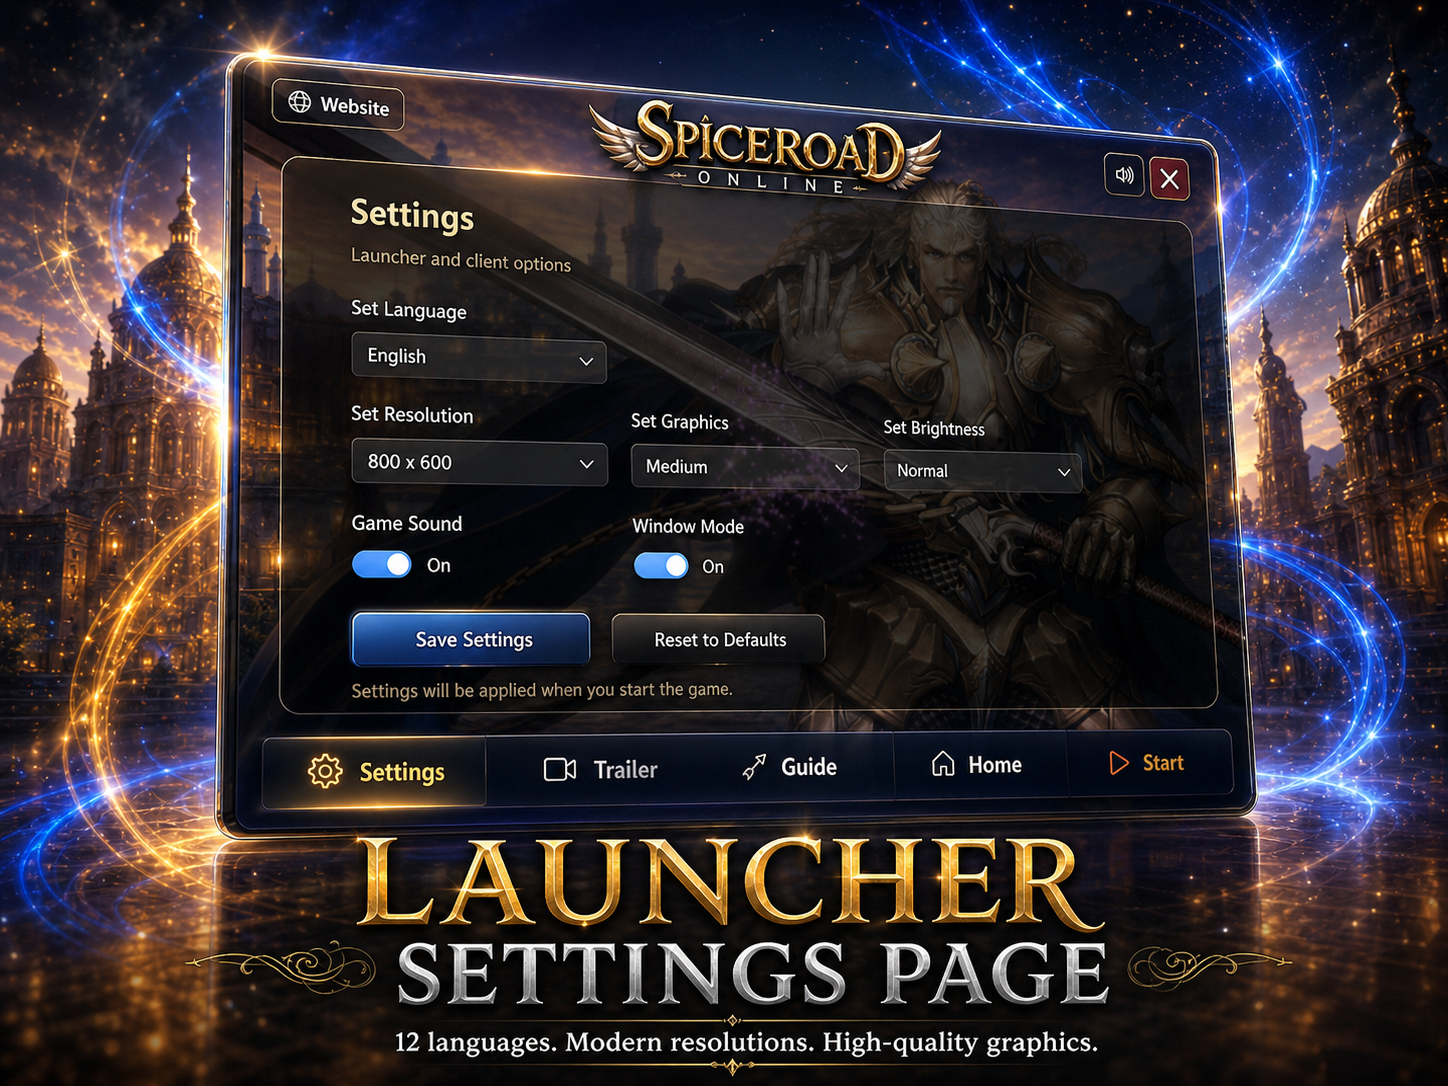
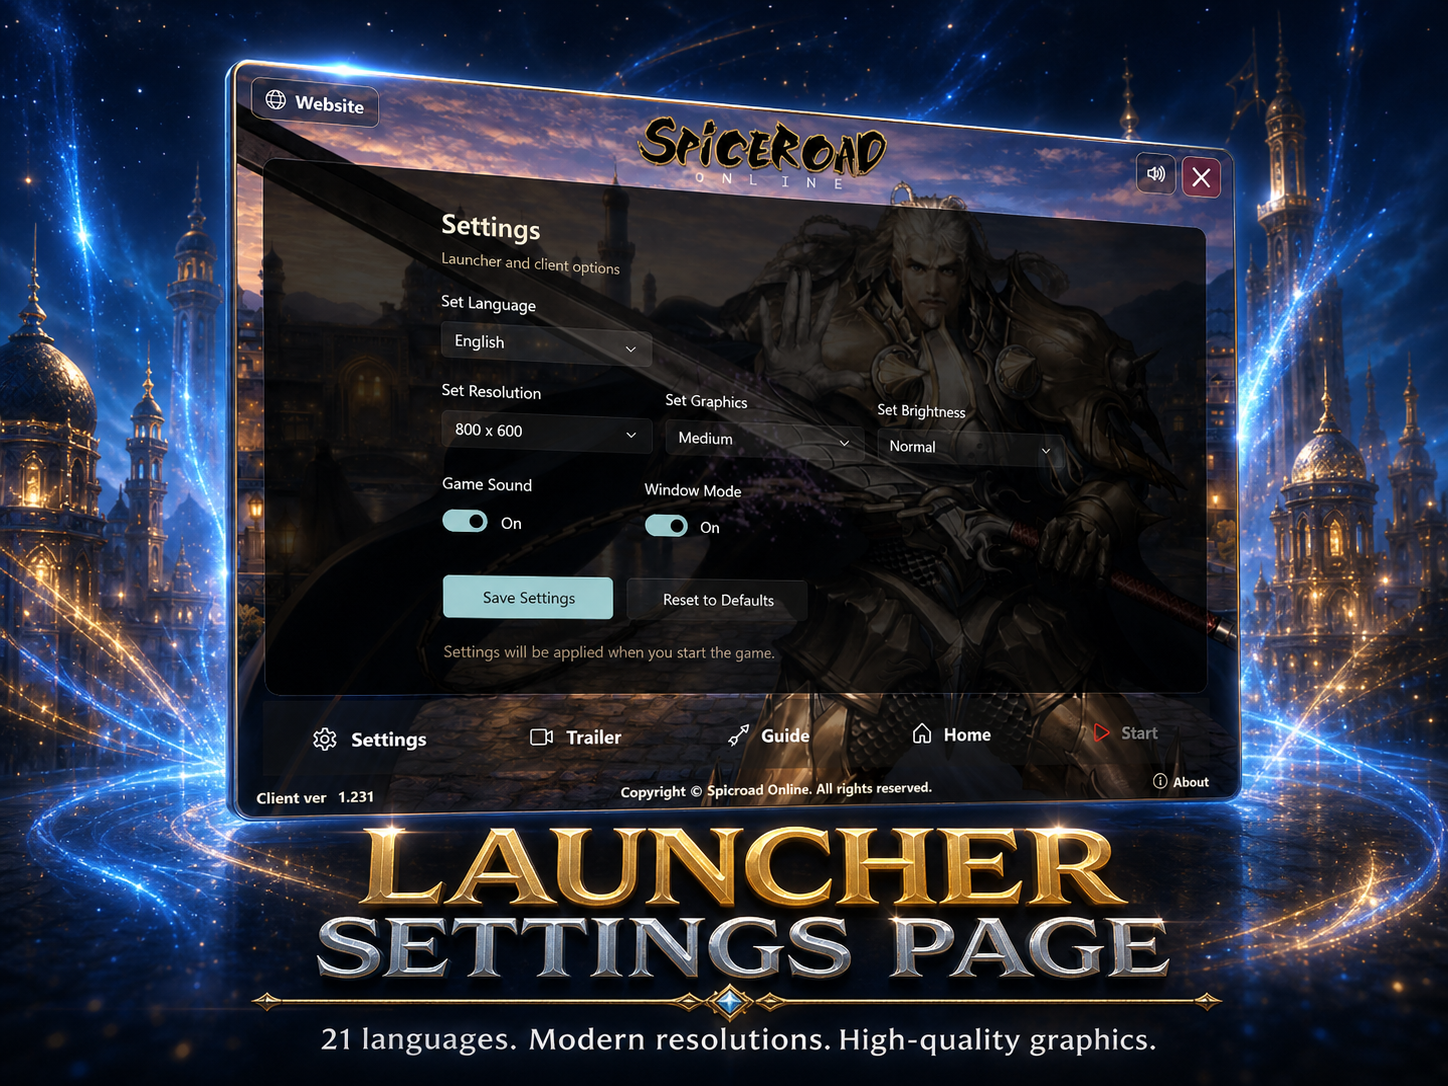
feat: update launcher product

diff --git a/src/content/platform.ts b/src/content/platform.ts
@@ -3,8 +3,9 @@ import installerFinishPage from '../assets/installer-finish-page.png';
 import installerInstallPage from '../assets/installer-install-page.png';
 import installerLocationPage from '../assets/installer-location-page.png';
 import installerWelcomePage from '../assets/installer-welcome-page.png';
-import launcherScreen from '../assets/launcher-screen.png';
-import launcherScreen2 from '../assets/launcher-screen2.png';
+import launcherHomePage from '../assets/launcher-home-page.png';
+import launcherSettingsPage from '../assets/launcher-settings-page.png';
+import launcherUpdatePage from '../assets/launcher-update-page.png';
 import serverManagerScreen from '../assets/server-manager-screen.png';
 import serverManagerScreen2 from '../assets/server-manager-screen2.png';
 import { routes } from '../lib/routes';
@@ -113,14 +114,14 @@ export const featuredProducts: FeaturedProduct[] = [
         slug: 'launcher',
         name: 'Game Launcher',
         description:
-            'Fully customizable game launcher package inspired by in-game launcher aesthetics and modern product UX.',
+            'Order a branded five-screen launcher package with homepage, settings, update, trailer, and guide views.',
         pricePrefix: 'From',
         priceLabel: '$149',
         badge: 'Source',
         href: routes.launcher,
-        imageSrc: launcherScreen.src,
-        imageAlt: 'Game launcher',
-        ctaLabel: 'Get Now',
+        imageSrc: launcherHomePage.src,
+        imageAlt: 'Launcher homepage screenshot',
+        ctaLabel: 'Order Now',
     },
     {
         slug: 'pk2-tools',
@@ -139,38 +140,40 @@ export const productCatalog: ProductDetail[] = [
     {
         slug: 'launcher',
         name: 'Game Launcher',
-        description: 'Branded launcher package with home, settings, progress, and premium player-entry screens.',
+        description: 'Branded launcher package with homepage, settings, update, trailer, and guide screens.',
         priceLabel: 'From $149',
         badge: 'Flagship',
         href: routes.launcher,
-        imageSrc: launcherScreen.src,
-        imageAlt: 'Launcher main screenshot',
+        imageSrc: launcherHomePage.src,
+        imageAlt: 'Launcher homepage screenshot',
         ctaLabel: 'View Product',
-        heroBadges: ['Flagship Product', 'Source Included'],
+        heroBadges: ['5 screen flow', 'Custom branding'],
         sideNote:
-            'Premium game launcher source package with visuals and structure tailored for Silkroad private-server branding.',
+            'Start a launcher order with your logo and optional background artwork for a branded five-screen flow.',
         sideList: [
-            'Instant dashboard delivery',
-            'Commercial presentation-ready',
-            'Pairs well with custom installer service',
-            'Expandable with bespoke work',
+            'Homepage, settings, update, trailer, and guide screens',
+            'Logo required for branding',
+            'Optional background artwork',
+            'Pairs with the installer order flow',
         ],
         gallery: [
-            { src: launcherScreen.src, alt: 'Launcher main screenshot' },
-            { src: launcherScreen2.src, alt: 'Launcher settings screenshot' },
+            { src: launcherHomePage.src, alt: 'Launcher homepage screenshot' },
+            { src: launcherSettingsPage.src, alt: 'Launcher settings screenshot' },
+            { src: launcherUpdatePage.src, alt: 'Launcher update screenshot' },
         ],
         subtitle:
-            'A premium launcher package built around the in-game Silkroad look, with polished screens for patching, settings, promotion, and entry flow. This product is designed for servers that want a branded launcher experience that feels production-ready from first boot.',
+            'A premium launcher package built around the in-game Silkroad look, with polished homepage, settings, update, trailer, and guide screens. This product is designed for servers that want a branded launcher experience that feels production-ready from first boot.',
         stats: [
-            { value: '4 screens', label: 'Landing, settings, progress, legal' },
-            { value: 'Brand ready', label: 'Replace logo, links, artwork' },
-            { value: 'Delivery', label: 'Source package + assets' },
+            { value: '5 screens', label: 'Home, settings, update, trailer, guide' },
+            { value: 'Logo required', label: 'Used across launcher branding' },
+            { value: 'Artwork ready', label: 'Optional background image set' },
         ],
         included: [
-            'Main launcher shell with navigation, patch status, and branded home panel.',
+            'Homepage launcher shell with navigation, patch status, notices, and branded entry panel.',
             'Settings screen with launcher-side controls for language, resolution, graphics, and audio.',
-            'Installer/progress-ready visual language so the full product family stays cohesive.',
-            'Editable artwork, logo placement, links, and footer/legal sections.',
+            'Update screen with a clear patching state and progress-focused presentation.',
+            'Trailer and guide screens planned for richer media and onboarding content.',
+            'Editable logo placement, background artwork, links, notices, and footer copy.',
         ],
         goodFit: [
             'Servers that want a premium first impression before the client even launches.',
@@ -178,29 +181,35 @@ export const productCatalog: ProductDetail[] = [
             'Teams that want a presentable launcher base they can iterate on over time.',
             'Storefronts selling branded launcher themes or premium client distribution packages.',
         ],
-        comparisonTitle: 'Package comparison',
-        comparisonHeaders: ['Tier', 'Price', 'Includes'],
+        comparisonTitle: 'Order requirements',
+        comparisonHeaders: ['Item', 'Required', 'Notes'],
         comparisonRows: [
             {
-                tier: 'Starter',
-                price: '$149',
-                includes: 'Main launcher source, settings screen, and asset placeholders',
+                tier: 'Logo',
+                price: 'Yes',
+                includes:
+                    'Required brand mark used across the launcher homepage, settings, update, trailer, and guide screens',
             },
             {
-                tier: 'Branded',
-                price: '$249',
-                includes: 'Starter + logo/colors/content setup and polished screen pack',
+                tier: 'Background images',
+                price: 'Optional',
+                includes: 'Custom artwork for the launcher homepage, settings, update, trailer, and guide presentation',
             },
             {
-                tier: 'Custom',
-                price: 'Quote',
-                includes: 'Custom flows, extra screens, service wiring, and store integration',
+                tier: 'Server links and copy',
+                price: 'Optional',
+                includes: 'Useful for notices, website links, support links, and footer text',
+            },
+            {
+                tier: 'Installer pairing',
+                price: 'Optional',
+                includes: 'Useful when pairing the launcher with the branded installer package',
             },
         ],
         faqs: [
             {
-                question: 'Does this include the settings screen too?',
-                answer: 'Yes. The package is presented as a launcher family, not just a single landing panel.',
+                question: 'Does this include settings, update, trailer, and guide screens too?',
+                answer: 'Yes. The package is presented as a five-screen launcher family: homepage, settings, update, trailer, and guide.',
             },
             {
                 question: 'Can I white-label it?',
@@ -211,7 +220,7 @@ export const productCatalog: ProductDetail[] = [
                 answer: 'Yes. The installer page and launcher page are designed to feel like one product ecosystem.',
             },
         ],
-        primaryActionLabel: 'Buy Now',
+        primaryActionLabel: 'Start order',
         secondaryActionLabel: 'Add to Wishlist',
     },
     {

diff --git a/src/scripts/site.ts b/src/scripts/site.ts
@@ -138,7 +138,7 @@ document.addEventListener('DOMContentLoaded', () => {
 
     const getOrderMode = (panel) => {
         const checkedMode = panel.querySelector('[data-order-mode-option]:checked');
-        return checkedMode instanceof HTMLInputElement ? checkedMode.value : 'download';
+        return checkedMode instanceof HTMLInputElement ? checkedMode.value : null;
     };
 
     const openOrderPanel = (panel) => {
@@ -148,7 +148,8 @@ document.addEventListener('DOMContentLoaded', () => {
         panel.classList.add('is-order-open');
         if (summary instanceof HTMLElement) summary.hidden = true;
         if (form instanceof HTMLElement) form.hidden = false;
-        setOrderMode(panel, getOrderMode(panel));
+        const orderMode = getOrderMode(panel);
+        if (orderMode) setOrderMode(panel, orderMode);
         panel.scrollIntoView({ behavior: 'smooth', block: 'start' });
     };
 

diff --git a/src/styles/global.css b/src/styles/global.css
@@ -609,7 +609,8 @@ a {
     z-index: 0;
 }
 
-.product-card--installer .card-art img {
+.product-card--installer .card-art img,
+.product-card--launcher .card-art img {
     object-fit: contain;
     background: #120a05;
 }
@@ -1399,7 +1400,8 @@ body:not([data-particles]) .page-shell {
     margin: 0;
 }
 
-.product-media-card--installer .hero-panel-media .media-slide img {
+.product-media-card--installer .hero-panel-media .media-slide img,
+.product-media-card--launcher .hero-panel-media .media-slide img {
     object-fit: contain;
 }
 
